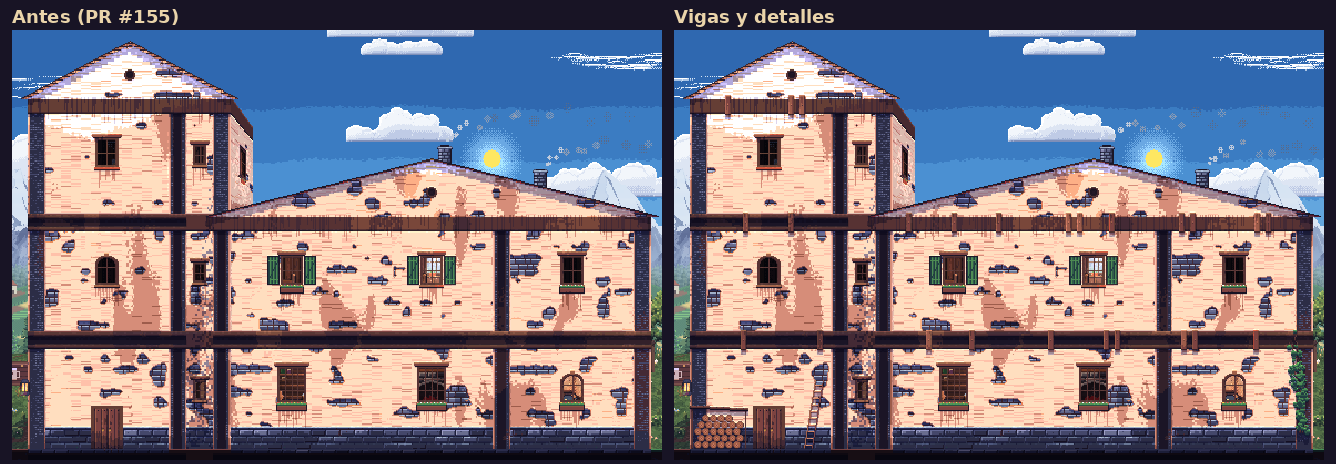
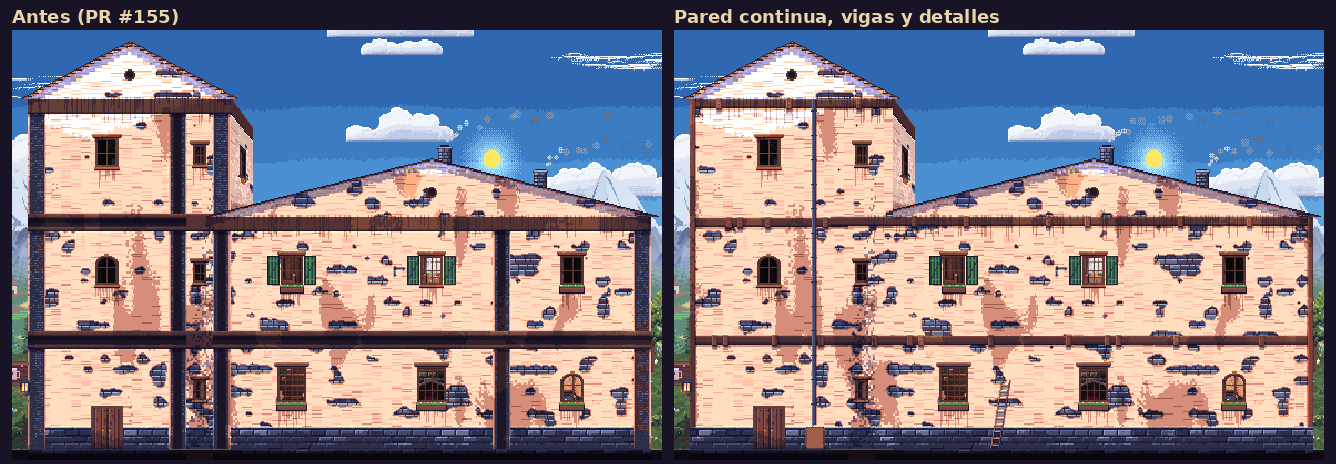
Vista desde fuera: la pared tapa también muros y forjados
Antes solo se tapaba el hueco de cada sala y entre medias se veía el corte (la
cámara de los muros y los forjados). Ahora la pared de fuera cubre toda la
silueta del edificio; en cada forjado, una viga corrida maciza (o una cornisa de
piedra) con su sombra y las testas, y cantoneros en las esquinas.

Claude-Session: https://claude.ai/code/session_011Wau2BQvy7vSDxLpNqRvSa

diff --git a/src/world/rooms/textures.ts b/src/world/rooms/textures.ts
@@ -37,7 +37,7 @@ import { BLIND, cellsOf, sconceOn, takeWallActs, windowX } from './salas/kit';
 import { RISE, goesRight, stepAt } from './stairs';
 import { streetDoor } from './salas/recibidor';
 import { cloth } from './salas/tintes';
-import { beamEnds, ivy, ladder, pickDetails, rainBarrel, woodpile } from './detalles';
+import { beamEnds, ivy, ladder, pickDetails, rainBarrel, shadeAt, woodpile } from './detalles';
 import { ageWall } from './envejecer';
 import { roofAt, roofRelief, wallFill } from './fachada';
 import { wallSection } from './muros';
@@ -1131,8 +1131,85 @@ export function outsideFace(
     sills.push({ x: x - 2, y: drip, w: w + 4 });
   };
   const rooms = L.rooms.filter(({ room }) => room.type !== 'torre');
-  for (const { rect } of rooms) fill(interior(rect));
-  for (const c of [...stairCells(L), ...caveCells(L)]) fill(interior(c.rect));
+  // Bajo tierra, el hueco de cada sala se rellena de tierra (los muros de piedra, como estaban).
+  for (const { room, rect } of rooms) if (room.floor < 0) fill(interior(rect));
+  for (const c of [...stairCells(L), ...caveCells(L)]) if (c.floor < 0) fill(interior(c.rect));
+  // Por encima, la pared de fuera tapa toda la silueta del edificio: el hueco de cada sala y
+  // también el grueso de los muros y los forjados (que en la vista de siempre se ven en corte).
+  // Debajo de un tejado, se respetan las tres filas del alero del hastial.
+  const above = [
+    ...rooms.filter(({ room }) => room.floor >= 0).map(({ rect }) => rect),
+    ...stairCells(L)
+      .filter((c) => c.floor >= 0)
+      .map((c) => c.rect),
+  ];
+  const runs = roofRuns(L);
+  const underRoof = (r: Rect) =>
+    runs.some((u) => u.base === r.y - SLAB && u.x0 < r.x + r.w && u.x1 > r.x);
+  const stone = look.walls === 'piedra' || look.walls === 'pizarra' || look.walls === 'ladrillo';
+  const bands: { x0: number; x1: number; y: number }[] = [];
+  for (const r of above) {
+    const x0 = Math.round(r.x - WALL - ox);
+    const x1 = Math.round(r.x + r.w + WALL - ox);
+    const y0 = Math.round(r.y - SLAB - oy) + (underRoof(r) ? 3 : 0);
+    for (let y = Math.max(0, y0); y < Math.min(g, r.y + r.h + SLAB - oy); y++)
+      for (let x = Math.max(0, x0); x < Math.min(b.w, x1); x++) {
+        const src = y >= g - PLINTH ? plinth : wall;
+        b.level = src.reliefAt(x, y);
+        b.set(x, y, src.get(x, y));
+      }
+    bands.push({ x0, x1, y: y0 + (underRoof(r) ? 0 : 4) });
+  }
+  b.level = 0;
+  // En cada forjado, una viga corrida maciza (madera) o una cornisa de piedra, con su sombra.
+  const BAND = 8;
+  for (const { x0, x1, y } of bands) {
+    for (let x = x0; x < x1; x++) {
+      shadeAt(b, x, y + BAND);
+      shadeAt(b, x, y + BAND + 1);
+    }
+    if (stone) {
+      b.level = 4;
+      b.rect(x0, y, x1 - x0, BAND, P.steel);
+      b.hline(x0, y, x1 - x0, P.mist);
+      b.hline(x0, y + 1, x1 - x0, P.fog);
+      b.hline(x0, y + BAND - 2, x1 - x0, P.slate);
+      b.hline(x0, y + BAND - 1, x1 - x0, P.black);
+      for (let x = x0 + 3; x < x1; x += 11 + ((x * 7) % 5)) b.vline(x, y + 2, BAND - 3, P.navy);
+    } else beam(b, x0, y, x1 - x0, BAND, WOOD_DARK);
+    b.level = 0;
+  }
+  // En las esquinas del edificio, un cantonero (madera) o los sillares de esquina (piedra).
+  const edge = (x: number) => Math.abs(x - (L.left - ox)) < 1 || Math.abs(x - (L.right - ox)) < 1;
+  for (const r of above) {
+    const x0 = Math.round(r.x - WALL - ox);
+    const x1 = Math.round(r.x + r.w + WALL - ox);
+    const y0 = Math.round(r.y - SLAB - oy) + (underRoof(r) ? 3 : 0);
+    const y1 = Math.min(g - PLINTH, Math.round(r.y + r.h + SLAB - oy));
+    for (const [ex, side] of [
+      [x0, 1],
+      [x1 - 5, -1],
+    ] as const) {
+      if (!edge(side === 1 ? x0 : x1)) continue;
+      b.level = 5;
+      if (stone)
+        for (let y = y0; y < y1; y += 6) {
+          const long = ((y - y0) / 6) % 2 === 0;
+          const w = long ? 9 : 5;
+          const xx = side === 1 ? x0 : x1 - w;
+          b.rect(xx, y, w, 5, P.steel);
+          b.hline(xx, y, w, P.fog);
+          b.hline(xx, y + 5, w, P.navy);
+        }
+      else {
+        b.rect(ex, y0, 5, y1 - y0, P.rust);
+        b.vline(ex, y0, y1 - y0, P.oak);
+        b.vline(ex + 4, y0, y1 - y0, P.bark);
+        for (let y = y0; y < y1; y++) shadeAt(b, side === 1 ? ex + 5 : ex - 1, y);
+      }
+      b.level = 0;
+    }
+  }
   for (const { room, rect } of rooms) {
     if (room.floor < 0) continue;
     for (let f = 0; f < room.h; f++)
@@ -1171,10 +1248,8 @@ export function outsideFace(
     if (s.floor >= 0) window(s.rect.x + s.rect.w / 2, s.rect.y + 30, 8, 14, 'cuarterones');
   // Las testas de las vigas en cada forjado (el de encima de cada sala), con su sombra.
   const beams = new Rng(`vigas-${seed}`);
-  for (const { room, rect } of rooms) {
-    if (room.floor < 0) continue;
-    beamEnds(b, rect.x - ox, rect.x + rect.w - ox, rect.y - SLAB - oy, SLAB, beams, () => false);
-  }
+  if (!stone)
+    for (const { x0, x1, y } of bands) beamEnds(b, x0 + 6, x1 - 6, y, BAND, beams, () => false);
   // Y todo, envejecido: la humedad del pie, los churretes bajo alféizares y aleros, paños y el
   // sol en lo alto (ver `envejecer.ts`).
   let top = 0;

diff --git a/src/world/rooms/detalles.ts b/src/world/rooms/detalles.ts
@@ -10,7 +10,7 @@ import type { PixelBuffer } from '../../art/pixel';
 import { step } from './envejecer';
 
 /** Oscurece un escalón lo ya pintado (la sombra de algo que sale de la pared). */
-function shade(b: PixelBuffer, x: number, y: number) {
+export function shadeAt(b: PixelBuffer, x: number, y: number) {
   if (!b.inside(x, y)) return;
   const i = y * b.w + x;
   const c = b.data[i]!;
@@ -42,10 +42,10 @@ export function beamEnds(
       const bh = h + 2;
       // La sombra: debajo (dos filas) y a la derecha (una columna), en la pared.
       for (let i = 1; i <= w + 1; i++) {
-        shade(b, xx + i, top + bh);
-        shade(b, xx + i, top + bh + 1);
+        shadeAt(b, xx + i, top + bh);
+        shadeAt(b, xx + i, top + bh + 1);
       }
-      for (let j = 1; j < bh; j++) shade(b, xx + w, top + j);
+      for (let j = 1; j < bh; j++) shadeAt(b, xx + w, top + j);
       b.level = 6;
       b.rect(xx, top, w, bh, P.rust);
       b.hline(xx, top, w, P.oak);
@@ -113,7 +113,7 @@ export function woodpile(b: PixelBuffer, x: number, ground: number, rng: Rng): v
   const r = 3;
   // El tejadillo: tablas inclinadas sobre dos palos, y su sombra en la pared.
   const roofY = ground - rows * 6 - 9;
-  for (let i = 0; i < w + 6; i++) for (let j = 1; j <= 3; j++) shade(b, x - 3 + i, roofY + 2 + j);
+  for (let i = 0; i < w + 6; i++) for (let j = 1; j <= 3; j++) shadeAt(b, x - 3 + i, roofY + 2 + j);
   b.level = 4;
   b.vline(x - 2, roofY + 2, ground - roofY - 2, P.bark);
   b.vline(x + w + 1, roofY + 2, ground - roofY - 2, P.bark);
@@ -159,7 +159,7 @@ export function rainBarrel(b: PixelBuffer, x: number, top: number, ground: numbe
     b.set(x, y, P.slate);
     b.set(x + 1, y, P.slate);
     b.set(x + 2, y, P.navy);
-    shade(b, x + 3, y);
+    shadeAt(b, x + 3, y);
     if ((y - top) % 22 === 10) {
       b.hline(x - 2, y, 6, P.navy);
     }
@@ -168,7 +168,7 @@ export function rainBarrel(b: PixelBuffer, x: number, top: number, ground: numbe
   b.set(x - 1, by - 1, P.slate);
   b.set(x, by - 2, P.slate);
   // La sombra del tonel en la pared.
-  for (let j = 2; j < bh; j++) shade(b, bx + bw, by + j);
+  for (let j = 2; j < bh; j++) shadeAt(b, bx + bw, by + j);
   b.level = 5;
   for (let j = 0; j < bh; j++) {
     // Algo más ancho en medio (la panza).
@@ -193,13 +193,13 @@ export function ladder(b: PixelBuffer, x: number, ground: number, h: number): vo
     const off = Math.round((lean * j) / h);
     const yy = ground - 1 - j;
     // La sombra a la derecha de cada larguero.
-    shade(b, x + off + 1, yy);
-    shade(b, x + off + w + 1, yy);
+    shadeAt(b, x + off + 1, yy);
+    shadeAt(b, x + off + w + 1, yy);
     b.set(x + off, yy, P.oak);
     b.set(x + off + w, yy, P.rust);
     if (j % 6 === 3) {
       b.hline(x + off + 1, yy, w - 1, P.clay);
-      for (let i = 1; i < w; i++) shade(b, x + off + i, yy + 1);
+      for (let i = 1; i < w; i++) shadeAt(b, x + off + i, yy + 1);
     }
   }
   b.level = 0;

diff --git a/docs/plan-arte.md b/docs/plan-arte.md
@@ -108,6 +108,11 @@ npm run build`.
   - [x] 7. Detalles sueltos, fijos por partida (la semilla, `pickDetails`), en los huecos de la
         planta baja libres de ventanas y puerta: hiedra en una esquina, leña bajo un tejadillo,
         la bajante con su tonel de lluvia y una escalera apoyada (no siempre salen todos).
+  - [x] Pared continua (el usuario: «sigue viéndose las paredes seccionadas, con hueco… y los
+        suelos»): la tapa cubre toda la silueta del edificio con la pared de fuera, también el
+        grueso de los muros y los forjados; en cada forjado, una viga corrida maciza (o una
+        cornisa de piedra en piedra, pizarra y ladrillo) con su sombra, y cantoneros (o sillares
+        de esquina) en las esquinas.
   - [ ] 8. Resto de materiales.
         Capturas en `capturas/fachada-envejecida/`.
 
